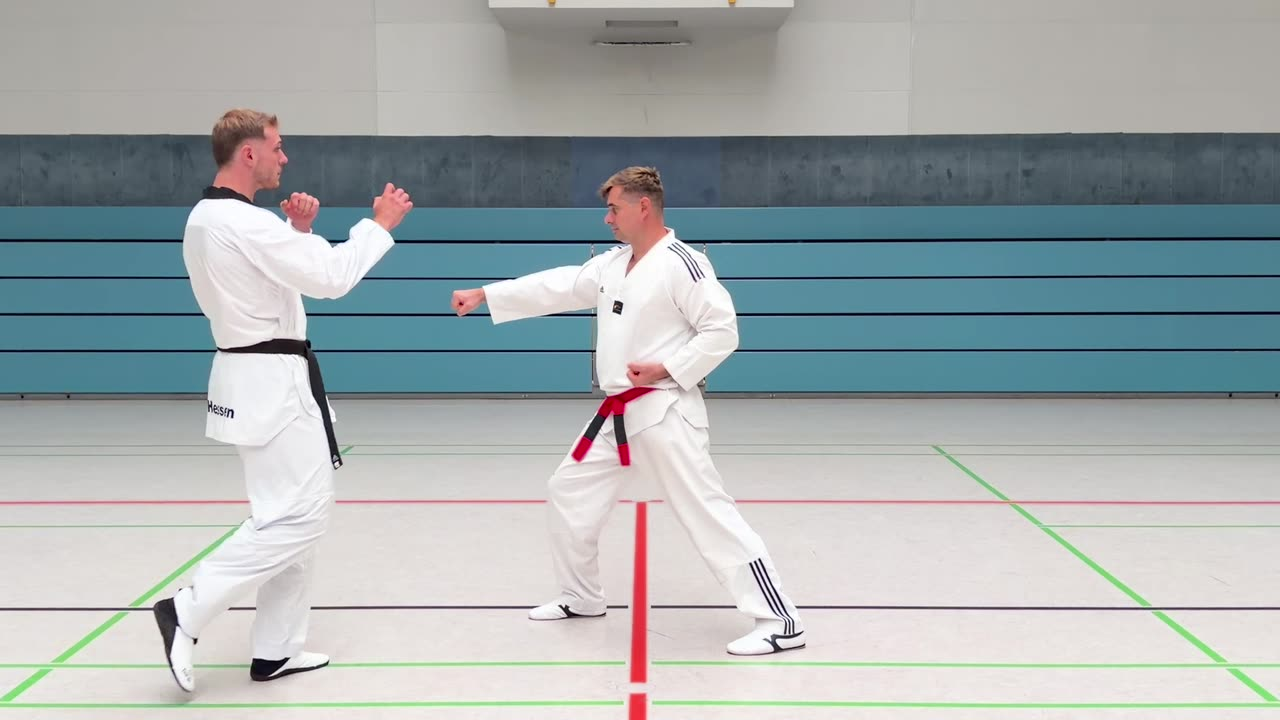
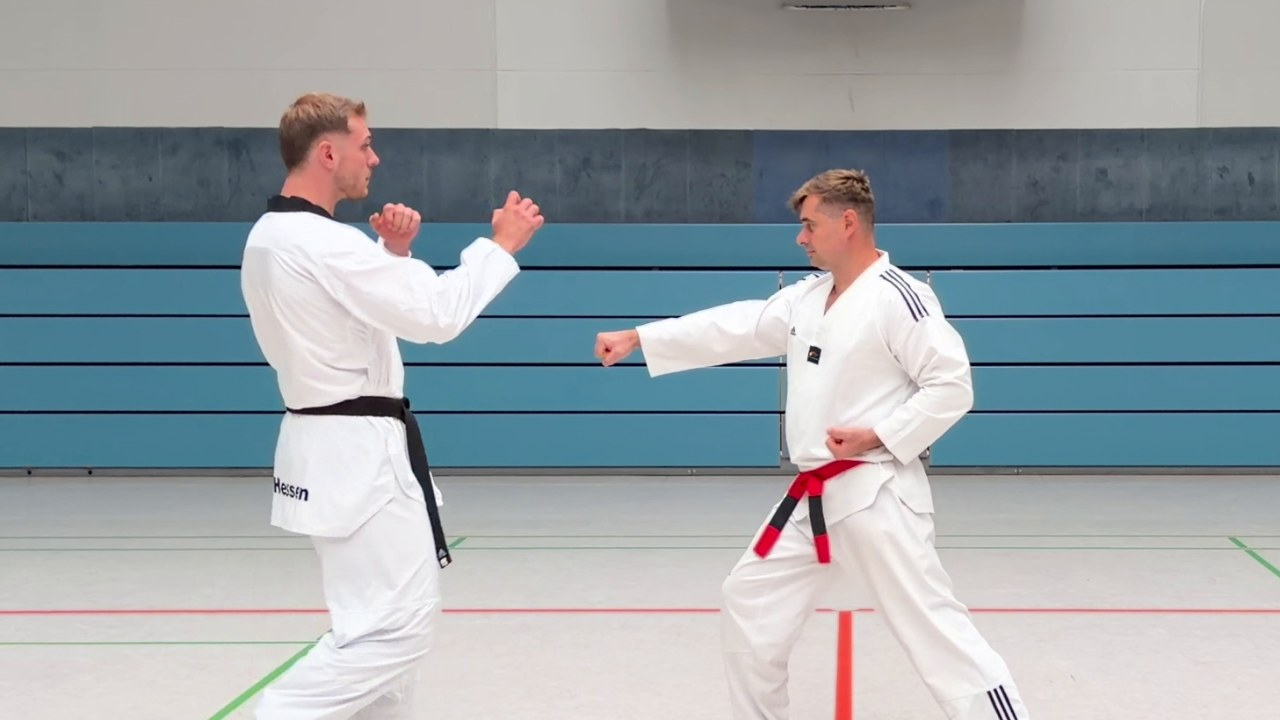
Vorschaubilder um die Personen zuschneiden
Die dreizehn Kacheln in der Videothek zeigten die Halle in ganzer
Breite. Die beiden Trainierenden standen darin klein und je nach
Aufnahme mittig, links oder rechts - bei Nr. 4, 8, 10 und 11 mit einer
halben leeren Hallenhaelfte daneben. Als Reihe wirkte das unruhig, und
welche Technik zu sehen ist, war kaum zu erkennen.

Jetzt folgt der Ausschnitt den Personen. Sie zu finden ist die eigentliche
Aufgabe, und ueber Farbe geht es nicht: Der weisse Dobok ist so hell wie
der Hallenboden, eine Bodenlinie so farbig wie ein roter Guertel. Was
hilft, ist dass die Kamera stillsteht. Aus fuenfzehn Einzelbildern je
Video entsteht per Medianwert ein Bild der leeren Halle - die beiden
bewegen sich, also gewinnt an jeder Stelle die Halle -, und der
Unterschied dazu zeigt die Personen.

Zugeschnitten wird aus der Originalaufnahme in 1920x1080, nicht aus dem
fertigen 720p-Video. Der engere Ausschnitt kostet damit keine Schaerfe.

Drei Dinge fielen beim Bauen auf und sind behoben:

* Schatten und eine Bodenmarkierung unter den Personen wurden als eigene
  Flaechen erkannt (227 und 504 Bildpunkte gegen 12171 fuer das Paar).
  Eine Promillegrenze liess sie durch, und weil eine bis an den unteren
  Bildrand reichte, zog sie den Ausschnitt auf die ganze Bildhoehe - der
  Zuschnitt fiel damit aus. Der Maszstab ist jetzt die groesste Flaeche
  selbst: Zwei Personen sind aehnlich grosz, ein Schatten ist um eine
  Groessenordnung kleiner.
[…]

diff --git a/werkzeuge/vorschaubild.py b/werkzeuge/vorschaubild.py
@@ -1,0 +1,270 @@
+#!/usr/bin/env python3
+"""
+Vorschaubild einer Trainingsaufnahme zuschneiden.
+
+    python3 werkzeuge/vorschaubild.py assets/video/IMG_1255.mov \
+        --ziel assets/video/hanbon-kyorugi-01.jpg
+
+Das Problem: Ein Einzelbild aus der Mitte des Videos zeigt die Halle in
+ganzer Breite, und die beiden Personen stehen je nach Aufnahme mittig,
+links oder rechts darin – klein, mit viel leerem Boden. Dreizehn solcher
+Bilder nebeneinander wirken unruhig, und man erkennt kaum, was darauf
+passiert.
+
+Also muss der Ausschnitt den beiden folgen. Woran erkennt man sie? Nicht
+an der Farbe: Der weiße Dobok ist so hell wie der Hallenboden, und
+Bodenlinien sind so farbig wie ein roter Gürtel. Verlässlich ist etwas
+anderes – die Kamera steht still. Was sich also über die Aufnahme hinweg
+verändert, sind die Personen, und was gleich bleibt, ist die Halle.
+
+Daraus wird ein Bild der leeren Halle: mehrere Einzelbilder über das
+Video verteilt, je Bildpunkt der Mittelwert der Helligkeiten (der
+Medianwert). Weil die beiden sich bewegen, gewinnt an jeder Stelle die
+Halle. Der Unterschied zwischen dem gewählten Einzelbild und diesem
+Hallenbild zeigt dann die Personen, und um die wird zugeschnitten.
+
+Zugeschnitten wird aus der Originalaufnahme in voller Auflösung, nicht
+aus dem fertigen 720p-Video – so kostet der engere Ausschnitt keine
+Schärfe.
+
+Voraussetzung: ffmpeg (oder pip install imageio-ffmpeg), numpy, opencv.
+
+Jeder ffmpeg-Aufruf hier bekommt -nostdin und eine leere
+Standardeingabe. Ohne das liest ffmpeg von der Standardeingabe mit und
+frisst Zeichen weg, wenn dieses Skript in einer Schleife laeuft, die
+ihre Liste ueber die Standardeingabe bekommt – die Zieldateien hiessen
+dann "-kyorugi-02.jpg" statt "hanbon-kyorugi-02.jpg", weil der Anfang
+jeder Zeile verschwunden war.
+"""
+import argparse
+import os
+import shutil
+import subprocess
+import sys
+import tempfile
+
+import cv2
+import numpy as np
+
+# Wie viel Höhe die Personen im fertigen Bild einnehmen sollen. 0.72
+# lässt oben und unten Luft, ohne dass Füße oder Kopf anstoßen.
+ANTEIL_HOEHE = 0.72
+
+# So viele Einzelbilder für das Bild der leeren Halle. Weniger als etwa
+# sieben, und eine Person, die lange still steht, bleibt darin stehen.
+HALLENBILDER = 15
+
+SEITENVERHAELTNIS = 16 / 9
+BREITE, HOEHE = 1280, 720
+
+# Breite, in der nach den Personen gesucht wird. Für die Frage „wo stehen
+# die beiden" genügt das; zugeschnitten wird danach im Original.
+ANALYSE_BREITE = 480
+
+
+def ffmpeg_pfad():
+    for kandidat in (os.environ.get("FFMPEG"), shutil.which("ffmpeg")):
+        if kandidat and os.path.exists(kandidat):
+            return kandidat
+    try:
+        import imageio_ffmpeg
+        return imageio_ffmpeg.get_ffmpeg_exe()
+    except Exception:
+        sys.exit("FEHLER: ffmpeg nicht gefunden. 'pip install imageio-ffmpeg' hilft.")
+
+
+def laufzeit(ff, quelle):
+    aus = subprocess.run([ff, "-nostdin", "-hide_banner", "-i", quelle],
+                         capture_output=True, text=True,
+                         stdin=subprocess.DEVNULL).stderr
+    for zeile in aus.splitlines():
+        if "Duration:" in zeile:
+            teil = zeile.split("Duration:")[1].split(",")[0].strip()
+            s, m, h = teil.split(":")[::-1]
+            return int(h) * 3600 + int(m) * 60 + float(s)
+    return 0.0
+
+
+def bild_bei(ff, quelle, sekunde, ordner, name):
+    """Ein Einzelbild in voller Auflösung, Farben nach bt709 umgerechnet."""
+    ziel = os.path.join(ordner, name)
+    # Dieselbe Tonwertkette wie in video-aufbereiten.sh: Die Aufnahmen
+    # sind HDR, ohne Umrechnung wirkt das Bild blass.
+    tonwert = ("zscale=t=linear:npl=100,format=gbrpf32le,zscale=p=bt709,"
+               "tonemap=tonemap=hable:desat=0,zscale=t=bt709:m=bt709:r=tv,"
+               "format=yuv420p")
+    for filter_kette in (tonwert, "format=yuv420p"):
+        ergebnis = subprocess.run(
+            [ff, "-nostdin", "-hide_banner", "-loglevel", "error", "-y",
+             "-ss", f"{sekunde:.3f}", "-i", quelle, "-frames:v", "1",
+             "-vf", filter_kette, ziel],
+            capture_output=True, text=True, stdin=subprocess.DEVNULL)
+        if ergebnis.returncode == 0 and os.path.exists(ziel):
+            return cv2.imread(ziel)
+    return None
+
+
+def hallenbild(ff, quelle, dauer, ordner):
+    """
+    Die Halle ohne Personen: Medianwert mehrerer Einzelbilder.
+
+    Klein und ohne Farbumrechnung. Beides braucht es hier nicht – gesucht
+    ist nur, wo die Personen stehen, und dafür genügt eine schmale
+    Fassung. Mit voller Auflösung und Tonwertkette dauerte ein Video zwei
+    Minuten. Ein einziger ffmpeg-Aufruf holt jetzt alle Bilder, statt
+    fünfzehnmal neu in die Datei zu springen.
+    """
+    muster = os.path.join(ordner, "h%03d.png")
+    rate = HALLENBILDER / max(dauer, 0.1)
+    ergebnis = subprocess.run(
+        [ff, "-nostdin", "-hide_banner", "-loglevel", "error", "-y", "-i", quelle,
+         "-vf", f"fps={rate:.4f},scale={ANALYSE_BREITE}:-2",
+         "-frames:v", str(HALLENBILDER), muster],
+        capture_output=True, text=True, stdin=subprocess.DEVNULL)
+    if ergebnis.returncode != 0:
+        return None
+
+    bilder = []
+    for i in range(1, HALLENBILDER + 1):
+        pfad = os.path.join(ordner, f"h{i:03d}.png")
+        if os.path.exists(pfad):
+            b = cv2.imread(pfad)
+            if b is not None:
+                bilder.append(b)
+    if len(bilder) < 3:
+        return None
+    return np.median(np.stack(bilder), axis=0).astype(np.uint8)
+
+
+def hochrechnen(kasten, von_breite, nach_breite):
+    """Rechteck aus der Analysefassung auf die Größe des Originals."""
+    f = nach_breite / von_breite
+    return tuple(int(round(w * f)) for w in kasten)
+
+
+def personen_kasten(bild, halle):
+    """
+    Umschließendes Rechteck der Personen, oder None.
+
+    Gearbeitet wird in der Größe des Hallenbilds, also in der schmalen
+    Analysefassung; das Ergebnis rechnet hochrechnen() anschließend auf
+    das Original hoch.
+    """
+    bild = cv2.resize(bild, (halle.shape[1], halle.shape[0]),
+                      interpolation=cv2.INTER_AREA)
+    unterschied = cv2.absdiff(bild, halle)
+    grau = cv2.cvtColor(unterschied, cv2.COLOR_BGR2GRAY)
+    grau = cv2.GaussianBlur(grau, (9, 9), 0)
+
+    # Schwelle aus dem Bild selbst: Otsu trennt "Halle" von "anders als
+    # Halle", ohne dass eine feste Zahl für jede Aufnahme passen muss.
+    _, maske = cv2.threshold(grau, 0, 255, cv2.THRESH_BINARY + cv2.THRESH_OTSU)
+    maske = cv2.morphologyEx(maske, cv2.MORPH_OPEN, np.ones((3, 3), np.uint8))
+    maske = cv2.morphologyEx(maske, cv2.MORPH_CLOSE, np.ones((13, 13), np.uint8))
+
+    anzahl, _, stats, _ = cv2.connectedComponentsWithStats(maske, connectivity=8)
+    if anzahl < 2:
+        return None
+
+    # Welche Flächen sind Personen? Nicht über eine feste Mindestgröße:
+    # Unter den beiden Trainierenden fanden sich Schatten und eine
+    # Bodenmarkierung als eigene Flächen von 227 und 504 Bildpunkten,
+    # gegen 12 171 für das Paar. Eine Promillegrenze ließ sie durch, und
+    # weil eine davon bis an den unteren Bildrand reichte, zog sie den
+    # Ausschnitt auf die ganze Bildhöhe – der Zuschnitt fiel damit aus.
+    #
+    # Der Maßstab ist deshalb die größte Fläche selbst: Zwei Personen im
+    # Bild sind ähnlich groß, ein Schatten ist um eine Größenordnung
+    # kleiner. Fünfzehn Prozent trennen das zuverlässig.
+    groesste = max(int(s[4]) for s in stats[1:])
+    mindest = max(bild.shape[0] * bild.shape[1] / 1000, groesste * 0.15)
+    teile = [s for s in stats[1:] if s[4] >= mindest]
+    if not teile:
+        return None
+
+    # Beide Personen zusammen, nicht nur die größere Fläche.
+    x0 = min(s[0] for s in teile)
+    y0 = min(s[1] for s in teile)
+    x1 = max(s[0] + s[2] for s in teile)
+    y1 = max(s[1] + s[3] for s in teile)
+    return x0, y0, x1, y1
+
+
+def zuschneiden(bild, kasten):
+    """16:9-Ausschnitt um die Personen, im Bild gehalten."""
+    hoehe, breite = bild.shape[:2]
+    x0, y0, x1, y1 = kasten
+
+    # Unten etwas dazugeben. Die Erkennung vergleicht mit dem Bild der
+    # leeren Halle, und ein Fuß, der die ganze Aufnahme über still steht,
+    # steckt in diesem Hallenbild mit drin – er fehlt dann im erkannten
+    # Rechteck, und der Ausschnitt schneidet ihn ab.
+    y1 = min(hoehe, y1 + int((y1 - y0) * 0.12))
+
+    ziel_hoehe = min(hoehe, max(1, int((y1 - y0) / ANTEIL_HOEHE)))
+    ziel_breite = int(ziel_hoehe * SEITENVERHAELTNIS)
+    if ziel_breite > breite:
+        ziel_breite = breite
+        ziel_hoehe = int(ziel_breite / SEITENVERHAELTNIS)
+
+    # Sind die beiden weit auseinander, muss der Ausschnitt breiter sein,
+    # sonst fällt eine Person heraus.
+    if x1 - x0 > ziel_breite * 0.92:
+        ziel_breite = min(breite, int((x1 - x0) / 0.92))
+        ziel_hoehe = min(hoehe, int(ziel_breite / SEITENVERHAELTNIS))
+        ziel_breite = int(ziel_hoehe * SEITENVERHAELTNIS)
+
+    mitte_x = (x0 + x1) // 2
+    # Senkrecht auf die Mitte des (unten erweiterten) Rechtecks. Das
+    # verschiebt den Ausschnitt leicht nach unten und lässt über den
+    # Köpfen Luft, statt Füße anzuschneiden.
+    mitte_y = (y0 + y1) // 2
+
+    links = int(np.clip(mitte_x - ziel_breite // 2, 0, breite - ziel_breite))
+    oben = int(np.clip(mitte_y - ziel_hoehe // 2, 0, hoehe - ziel_hoehe))
+
+    ausschnitt = bild[oben:oben + ziel_hoehe, links:links + ziel_breite]
+    return cv2.resize(ausschnitt, (BREITE, HOEHE), interpolation=cv2.INTER_AREA)
+
+
+def main():
+    p = argparse.ArgumentParser(description=__doc__,
+                                formatter_class=argparse.RawDescriptionHelpFormatter)
+    p.add_argument("quelle", help="Originalaufnahme (.mov)")
+    p.add_argument("--ziel", required=True, help="Pfad des Vorschaubilds (.jpg)")
+    p.add_argument("--bei", type=float, default=1 / 3,
+                   help="Zeitpunkt als Anteil der Laufzeit (Standard 1/3)")
+    args = p.parse_args()
+
+    ff = ffmpeg_pfad()
+    dauer = laufzeit(ff, args.quelle)
+    if dauer <= 0:
+        sys.exit(f"FEHLER: Laufzeit von {args.quelle} nicht lesbar.")
+
+    with tempfile.TemporaryDirectory() as ordner:
+        bild = bild_bei(ff, args.quelle, dauer * args.bei, ordner, "bild.png")
+        if bild is None:
+            sys.exit(f"FEHLER: Kein Einzelbild aus {args.quelle} zu holen.")
+
+        halle = hallenbild(ff, args.quelle, dauer, ordner)
+        kasten = personen_kasten(bild, halle) if halle is not None else None
+        if kasten is not None:
+            kasten = hochrechnen(kasten, halle.shape[1], bild.shape[1])
+
+    if kasten is None:
+        print(f"   {os.path.basename(args.quelle)}: keine Personen gefunden, "
+              f"ganzes Bild")
+        ergebnis = cv2.resize(bild, (BREITE, HOEHE), interpolation=cv2.INTER_AREA)
+    else:
+        x0, y0, x1, y1 = kasten
+        print(f"   {os.path.basename(args.quelle)}: Personen bei "
+              f"x {x0}–{x1}, y {y0}–{y1} von {bild.shape[1]}×{bild.shape[0]}")
+        ergebnis = zuschneiden(bild, kasten)
+
+    cv2.imwrite(args.ziel, ergebnis,
+                [cv2.IMWRITE_JPEG_QUALITY, 88, cv2.IMWRITE_JPEG_PROGRESSIVE, 1])
+    print(f"   → {args.ziel}")
+
+
+if __name__ == "__main__":
+    main()
